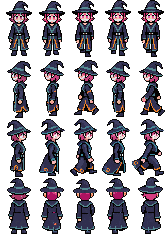
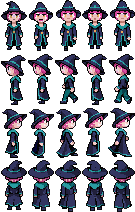
Explodia: shorter, younger chibi map sprite with its own walk cycle
Claude-Session: https://claude.ai/code/session_01TrRGdScs3EPkVvEyLSSQ5p

diff --git a/game/js/arc-art.js b/game/js/arc-art.js
@@ -1,2 +1,2 @@
 // Made by tools/village_art.py: sizes of the art and where each terrain tile sits.
-SD.arcArt = {"objects": {"nr-dungeon": [88, 129], "nr-cart": [45, 42], "nr-gate": [94, 82], "nr-waystation": [141, 137], "nr-arena": [164, 120], "nr-signpost": [24, 44], "nr-exchange": [176, 201], "nr-rock": [44, 30], "nr-camp": [134, 120], "nr-milestone": [38, 44], "nr-citygate": [213, 148], "nr-shop": [154, 116], "nr-caravan": [126, 101], "nr-courierpost": [96, 83], "nr-stage": [115, 97], "nr-arch": [107, 104], "nr-fence": [85, 32], "ws-inn": [216, 202], "ws-stable": [182, 140], "ws-tunnel": [288, 224], "ws-garden": [119, 92], "ws-tables": [101, 49], "ar-stand": [348, 109], "ar-standv": [108, 292], "ar-gate": [208, 189], "ar-booth": [148, 163], "ar-bracket": [172, 130], "ar-statue": [68, 152], "ar-wall": [190, 42], "cp-tent1": [112, 100], "cp-tent2": [79, 72], "cp-fire": [55, 60], "cp-board": [54, 69], "cp-tower": [90, 211], "cp-rack": [96, 77], "ex-ticker": [172, 105], "ex-bull": [109, 114], "ex-stall": [121, 104], "cp-chasm": [203, 154], "ex-tower": [291, 294], "ar-wallv": [48, 142], "nr-citywall": [240, 72], "nr-roofs": [132, 105], "ws-cliff": [230, 102], "ws-tunnel2": [120, 107], "ar-seats": [106, 82], "cp-dummy": [20, 58], "cp-vending": [34, 74], "ex-townhouse": [98, 158], "ex-townhouse2": [96, 162], "ex-planter": [40, 53], "ex-firepit": [62, 60]}, "terrain": {}, "chars": {"kyu": {"w": 30, "h": 53, "n": [4, 4, 4, 4], "walk": 1}, "latency": {"w": 28, "h": 56, "n": [4, 4, 4, 4], "walk": 1}, "hero1023": {"w": 26, "h": 51, "n": [4, 4, 4, 4], "walk": 1}, "hero500": {"w": 30, "h": 54, "n": [4, 4, 4, 4], "walk": 1}, "marta": {"w": 28, "h": 55, "n": [4, 4, 4, 4], "walk": 1}, "fen": {"w": 28, "h": 55, "n": [4, 4, 4, 4], "walk": 1}, "lyra": {"w": 28, "h": 53, "n": [4, 4, 4, 4], "walk": 1}, "gong": {"w": 32, "h": 51, "n": [4, 4, 4, 4], "walk": 1}, "hero77": {"w": 30, "h": 52, "n": [4, 4, 4, 4], "walk": 1}, "hero256": {"w": 32, "h": 59, "n": [4, 4, 4, 4], "walk": 1}, "hero3": {"w": 30, "h": 55, "n": [4, 4, 4, 4], "walk": 1}, "suzu": {"w": 32, "h": 56, "n": [4, 4, 4, 4], "walk": 1}, "explodia": {"w": 33, "h": 59, "n": [4, 4, 4, 4], "walk": 1}, "hypewagon": {"w": 28, "h": 53, "n": [4, 4, 4, 4], "walk": 1}, "akane": {"w": 30, "h": 54, "n": [4, 4, 4, 4], "walk": 1}, "zen": {"w": 28, "h": 54, "n": [4, 4, 4, 4], "walk": 1}, "renwalk": {"w": 28, "h": 54, "n": [4, 4, 4, 4], "walk": 1}}};
+SD.arcArt = {"objects": {"nr-dungeon": [88, 129], "nr-cart": [45, 42], "nr-gate": [94, 82], "nr-waystation": [141, 137], "nr-arena": [164, 120], "nr-signpost": [24, 44], "nr-exchange": [176, 201], "nr-rock": [44, 30], "nr-camp": [134, 120], "nr-milestone": [38, 44], "nr-citygate": [213, 148], "nr-shop": [154, 116], "nr-caravan": [126, 101], "nr-courierpost": [96, 83], "nr-stage": [115, 97], "nr-arch": [107, 104], "nr-fence": [85, 32], "ws-inn": [216, 202], "ws-stable": [182, 140], "ws-tunnel": [288, 224], "ws-garden": [119, 92], "ws-tables": [101, 49], "ar-stand": [348, 109], "ar-standv": [108, 292], "ar-gate": [208, 189], "ar-booth": [148, 163], "ar-bracket": [172, 130], "ar-statue": [68, 152], "ar-wall": [190, 42], "cp-tent1": [112, 100], "cp-tent2": [79, 72], "cp-fire": [55, 60], "cp-board": [54, 69], "cp-tower": [90, 211], "cp-rack": [96, 77], "ex-ticker": [172, 105], "ex-bull": [109, 114], "ex-stall": [121, 104], "cp-chasm": [203, 154], "ex-tower": [291, 294], "ar-wallv": [48, 142], "nr-citywall": [240, 72], "nr-roofs": [132, 105], "ws-cliff": [230, 102], "ws-tunnel2": [120, 107], "ar-seats": [106, 82], "cp-dummy": [20, 58], "cp-vending": [34, 74], "ex-townhouse": [98, 158], "ex-townhouse2": [96, 162], "ex-planter": [40, 53], "ex-firepit": [62, 60]}, "terrain": {}, "chars": {"kyu": {"w": 30, "h": 53, "n": [4, 4, 4, 4], "walk": 1}, "latency": {"w": 28, "h": 56, "n": [4, 4, 4, 4], "walk": 1}, "hero1023": {"w": 26, "h": 51, "n": [4, 4, 4, 4], "walk": 1}, "hero500": {"w": 30, "h": 54, "n": [4, 4, 4, 4], "walk": 1}, "marta": {"w": 28, "h": 55, "n": [4, 4, 4, 4], "walk": 1}, "fen": {"w": 28, "h": 55, "n": [4, 4, 4, 4], "walk": 1}, "lyra": {"w": 28, "h": 53, "n": [4, 4, 4, 4], "walk": 1}, "gong": {"w": 32, "h": 51, "n": [4, 4, 4, 4], "walk": 1}, "hero77": {"w": 30, "h": 52, "n": [4, 4, 4, 4], "walk": 1}, "hero256": {"w": 32, "h": 59, "n": [4, 4, 4, 4], "walk": 1}, "hero3": {"w": 30, "h": 55, "n": [4, 4, 4, 4], "walk": 1}, "suzu": {"w": 32, "h": 56, "n": [4, 4, 4, 4], "walk": 1}, "explodia": {"w": 27, "h": 53, "n": [4, 4, 4, 4], "walk": 1}, "hypewagon": {"w": 28, "h": 53, "n": [4, 4, 4, 4], "walk": 1}, "akane": {"w": 30, "h": 54, "n": [4, 4, 4, 4], "walk": 1}, "zen": {"w": 28, "h": 54, "n": [4, 4, 4, 4], "walk": 1}, "renwalk": {"w": 28, "h": 54, "n": [4, 4, 4, 4], "walk": 1}}};
